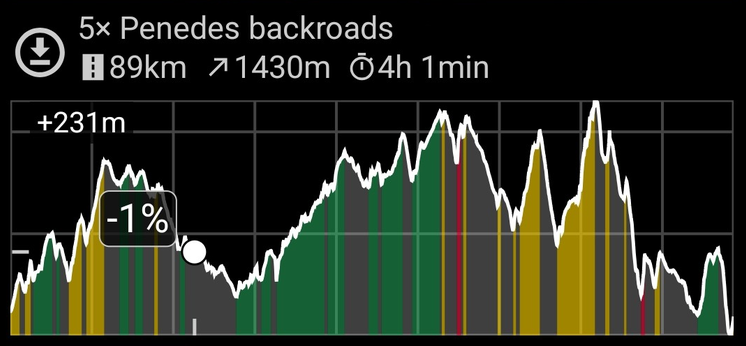
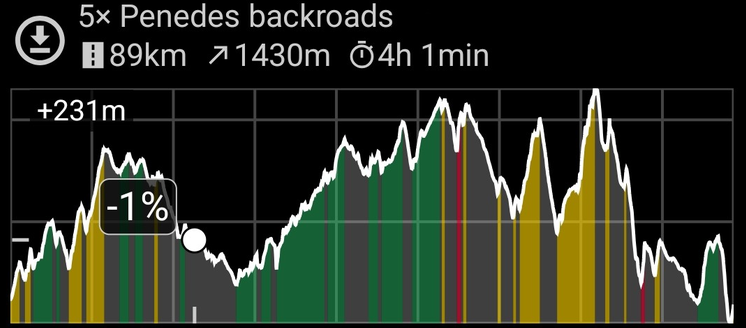
better README

diff --git a/README.md b/README.md
@@ -5,20 +5,11 @@ uses an open-source map service and combines gpx track guidance with weather for
   <img src="img/screenshot.jpg" alt="" width="400" />
 </p>
 
-Cyclope main features:
- - Load your GPX track and get a quick overview: track on the map, length, cumulative ascent, duration.
- - Accurate riding directions with useful points of interest like water sources and restaurants.
- - Several types of maps can be chosen from the Options panel.
- - While riding along the GPX track, you get current speed/altitude, ridden distance as well as distance to destination.
- - Real-time weather information like current temperature, wind speed and rain forecast.
-
-Running on your Android phone, Cyclope is designed to optimize power consumption so that, on an average phone, you can enjoy **15+ hours of battery time**.
-
 ## Main Features
 
 <table cellpadding="12">
    <tr>
-      <td><img src="img/weather.png" width="200" hspace="8" vspace="2" align="left" alt="Weather forecast" /><span>Air temperature, rain probability and wind speed prediction.</span></td>
+      <td><img src="img/weather.png" width="200" hspace="8" vspace="2" align="left" alt="Weather forecast" /><span>Air temperature, rain probability and wind speed prediction in real time.</span></td>
       <td><img src="img/poi.png" width="200" hspace="8" vspace="2" align="left" alt="Points of interest" /><span>Shows useful points of interest along the route.</span></td>
    </tr>
    <tr>
@@ -26,14 +17,18 @@ Running on your Android phone, Cyclope is designed to optimize power consumption
       <td><img src="img/instant_speed.png" width="200" hspace="8" vspace="2" align="left" alt="Instant speed" /><span>Monitor current speed, elevation and lapsed distance while riding.</span></td>
    </tr>
    <tr>
-      <td><img src="img/climb.png" width="200" hspace="8" vspace="2" align="left" alt="Climb information" /><span>Follow climbs and elevation information.</span></td>
-      <td></td>
+      <td><img src="img/climb.png" width="200" hspace="8" vspace="2" align="left" alt="Climb information" /><span>Instant elevation and climb information along all multiple tracks.</span></td>
+      <td><img src="img/battery.png" width="200" hspace="8" vspace="2" align="left" alt="Instant speed" /><span>Dark maps give 20+ hours of battery life with 100% screen brightness.</span></td>
    </tr>
 </table>
 
-The following sections show a simple setup to build Cyclope with Android SDK tools and install the compiled APK on your phone. This is done using WSL or Linux.
+Running on your Android phone, Cyclope is designed to optimize power consumption so that, on an average phone, you can enjoy **15+ hours of battery time**.
 
-## Prerequisites
+<h3 align="center"><a href="releases/Cyclope_v1.3.3.apk">DOWNLOAD AND INSTALL</a></h3>
+
+## Compile Cyclope
+
+The following sections show a simple setup to build Cyclope with Android SDK tools and install the compiled APK on your phone. This is done using WSL or Linux.
 
 - WSL/Linux shell
 - Java 17+
